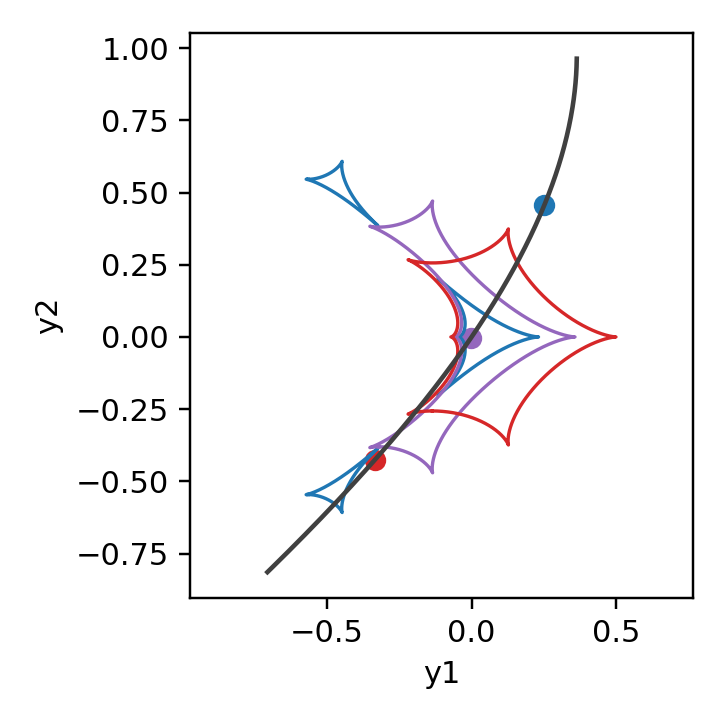
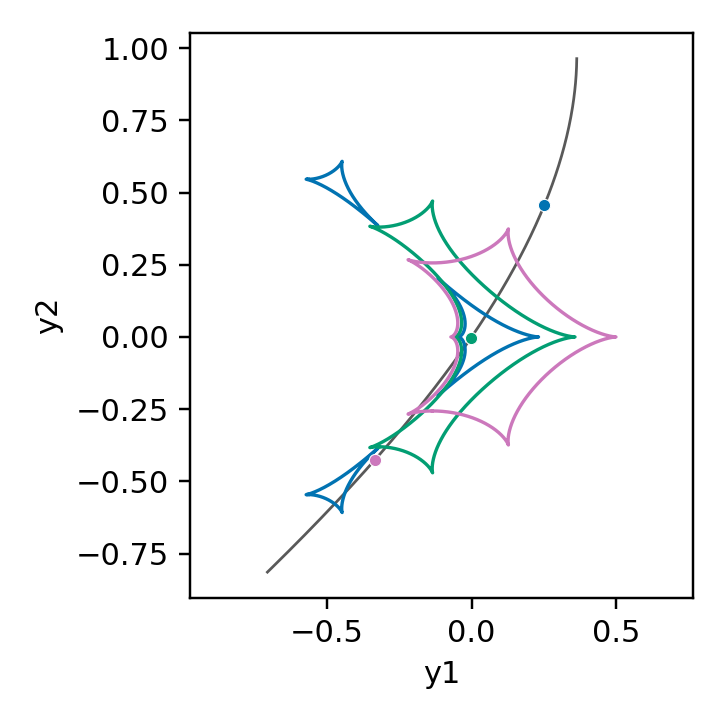
docs: refine combined-effects geometry styling

diff --git a/example/docs-python/generate_figures.py b/example/docs-python/generate_figures.py
@@ -528,14 +528,18 @@ def combined_effects():
     display_x = -np.asarray(trajectory.x)
     display_y = -np.asarray(trajectory.y)
     indices = [75, 150, 225]
-    colors = ["tab:blue", "tab:purple", "tab:red"]
+    colors = ["#0173B2", "#029E73", "#CC78BC"]
     plt.figure(figsize=(3.3, 3.3))
+    plt.plot(display_x, display_y, color="0.35", lw=0.9, zorder=1)
     for index, color in zip(indices, colors):
         plot_caustics(
-            combined.caustics(float(times[index]), params), color=color, lw=1.1
+            combined.caustics(float(times[index]), params), color=color, lw=1.1,
+            zorder=2,
         )
-        plt.scatter([display_x[index]], [display_y[index]], color=color)
-    plt.plot(display_x, display_y, color="0.25")
+        plt.scatter(
+            [display_x[index]], [display_y[index]], s=16, color=color,
+            edgecolor="white", linewidth=0.35, zorder=3,
+        )
     plt.xlabel("y1")
     plt.ylabel("y2")
     plt.axis("equal")

diff --git a/docs/python/CombinedEffects.md b/docs/python/CombinedEffects.md
@@ -118,15 +118,18 @@ trajectory = combined.source_trajectory(t, params)
 display_x = -np.asarray(trajectory.x)
 display_y = -np.asarray(trajectory.y)
 indices = [75, 150, 225]
-colors = ["tab:blue", "tab:purple", "tab:red"]
+colors = ["#0173B2", "#029E73", "#CC78BC"]
 
 plt.figure(figsize=(3.3, 3.3))
+plt.plot(display_x, display_y, color="0.35", lw=0.9, zorder=1)
 for index, color in zip(indices, colors):
     caustics = combined.caustics(float(t[index]), params)
     for x, y in zip(caustics.x, caustics.y):
-        plt.plot(-np.asarray(x), -np.asarray(y), color=color, lw=1.1)
-    plt.scatter([display_x[index]], [display_y[index]], color=color)
-plt.plot(display_x, display_y, color="0.25")
+        plt.plot(-np.asarray(x), -np.asarray(y), color=color, lw=1.1, zorder=2)
+    plt.scatter(
+        [display_x[index]], [display_y[index]], s=16, color=color,
+        edgecolor="white", linewidth=0.35, zorder=3,
+    )
 plt.xlabel("y1")
 plt.ylabel("y2")
 plt.axis("equal")
